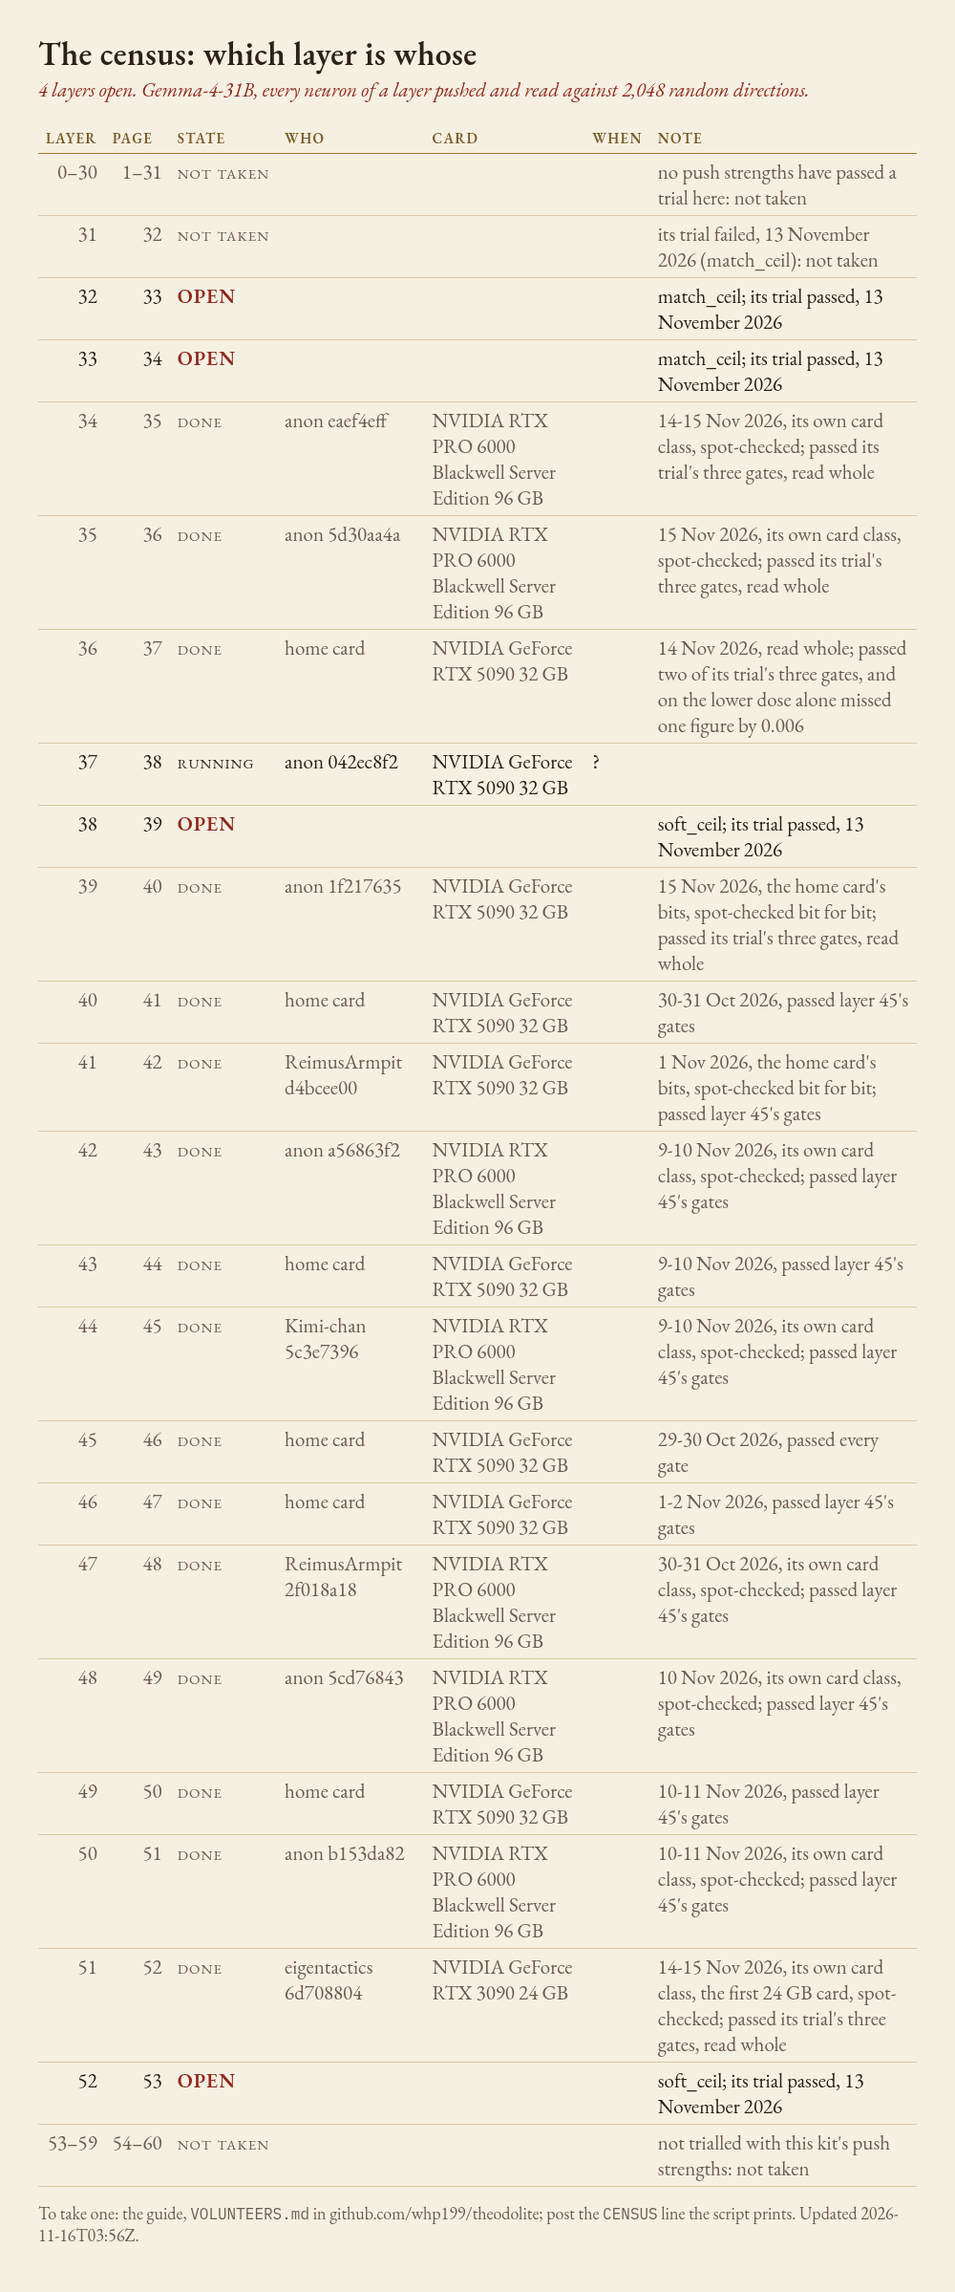
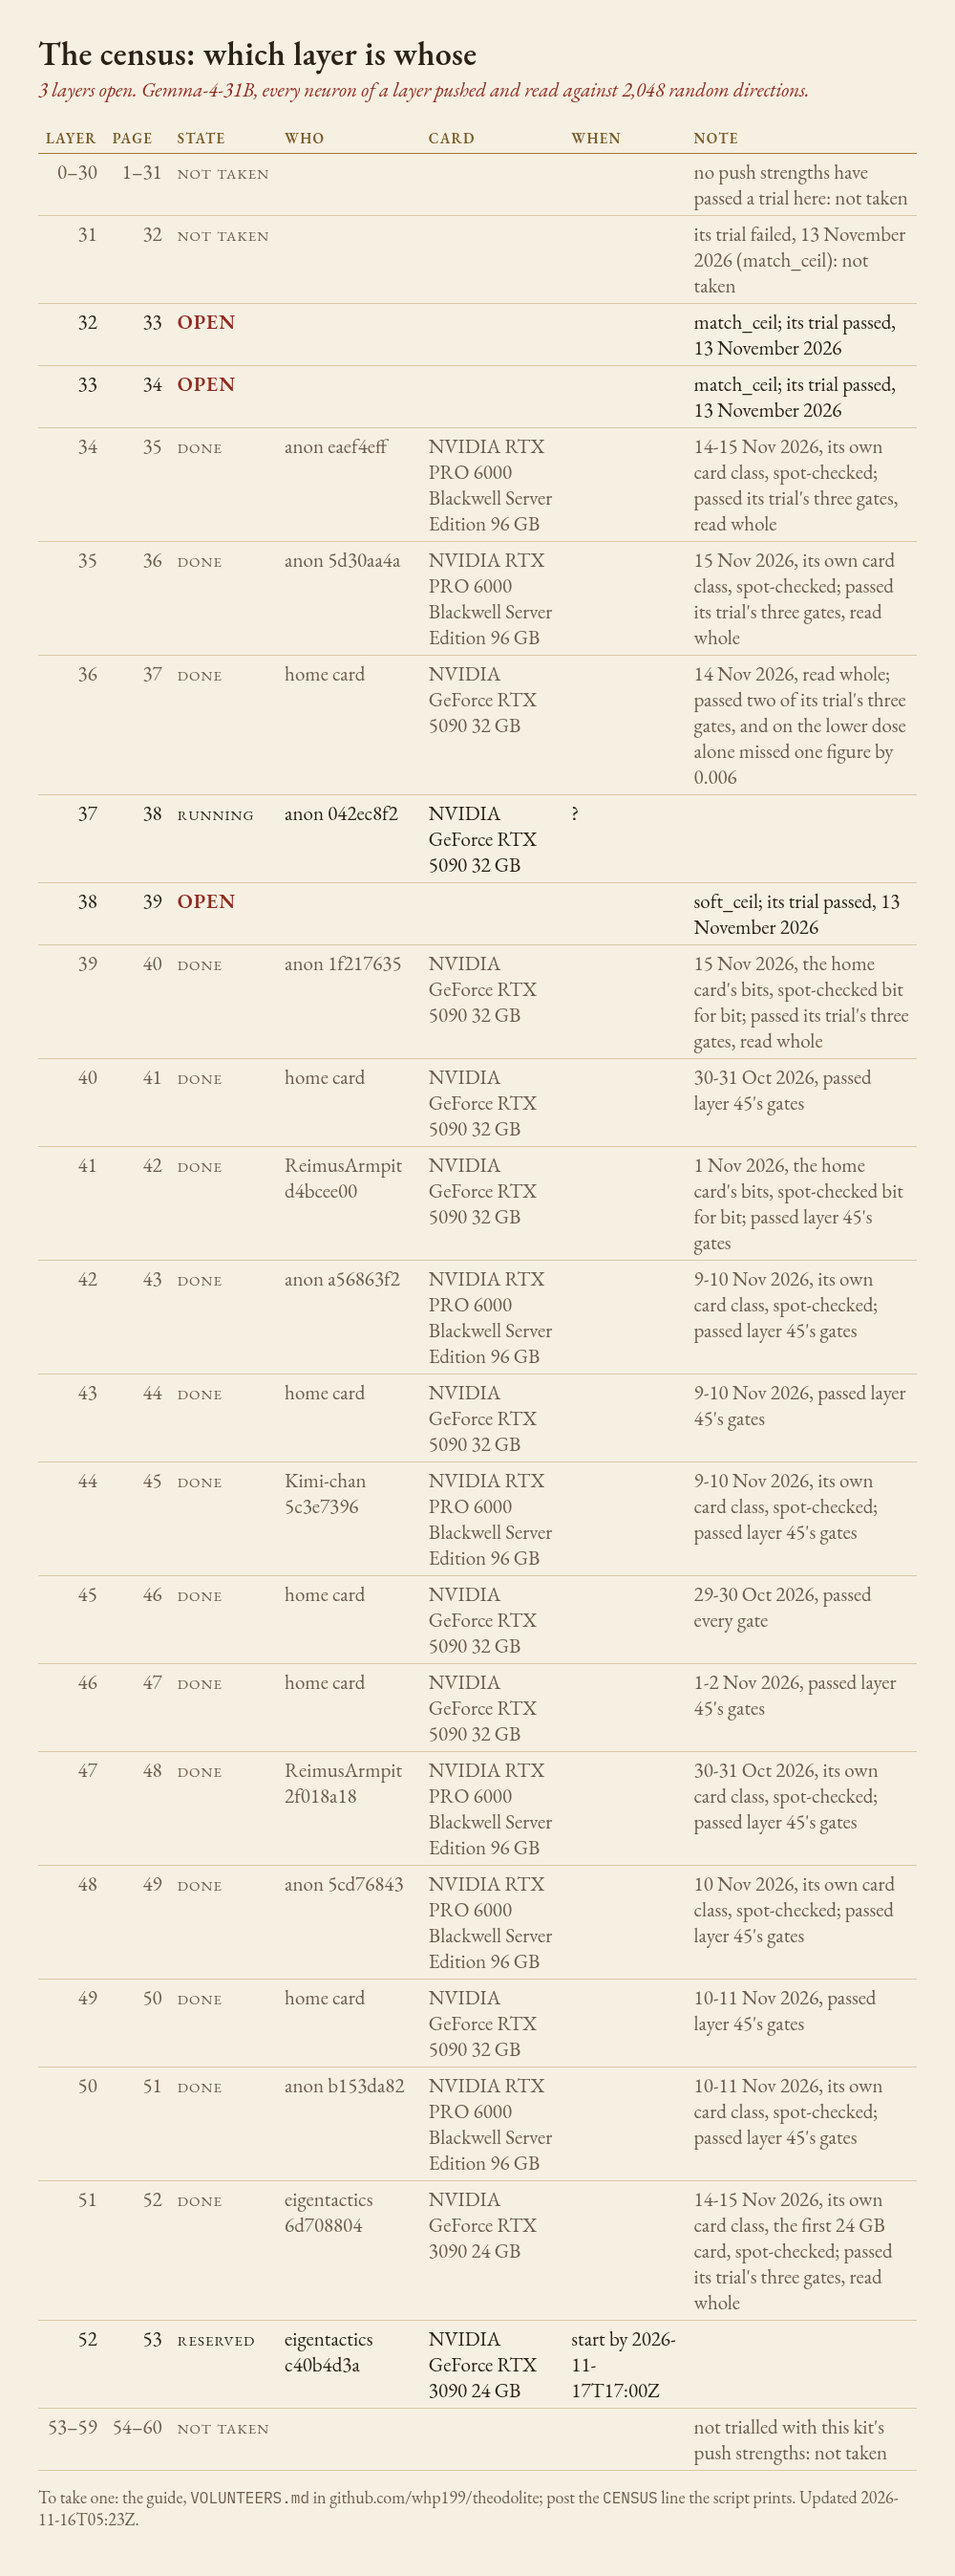
Board: layer 52 reserved by eigentactics on the RTX 3090 (c40b4d3a); 37 running; 32, 33 and 38 open

diff --git a/volunteers/BOARD.md b/volunteers/BOARD.md
@@ -26,7 +26,7 @@ Kit 4 (census-kit-4). How to take a layer: [VOLUNTEERS.md](https://github.com/wh
 | 49 | 50 | done | home card | NVIDIA GeForce RTX 5090 32 GB |  | 10-11 Nov 2026, passed layer 45's gates |
 | 50 | 51 | done | anon b153da82 | NVIDIA RTX PRO 6000 Blackwell Server Edition 96 GB |  | 10-11 Nov 2026, its own card class, spot-checked; passed layer 45's gates |
 | 51 | 52 | done | eigentactics 6d708804 | NVIDIA GeForce RTX 3090 24 GB |  | 14-15 Nov 2026, its own card class, the first 24 GB card, spot-checked; passed its trial's three gates, read whole |
-| 52 | 53 | OPEN |  |  |  | soft_ceil; its trial passed, 13 November 2026 |
+| 52 | 53 | reserved | eigentactics c40b4d3a | NVIDIA GeForce RTX 3090 24 GB | start by 2026-11-17T17:00Z |  |
 | 53–59 | 54–60 | not taken |  |  |  | not trialled with this kit's push strengths: not taken |
 
 Judged:
@@ -42,4 +42,4 @@ Judged:
 - L35 anon 5d30aa4a: accepted (15 Nov 2026, its own card class, spot-checked; passed its trial's three gates, read whole)
 - L39 anon 1f217635: accepted (15 Nov 2026, the home card's bits, spot-checked bit for bit; passed its trial's three gates, read whole)
 
-Holds: 36 h after RESERVE to START; then the run's end time (from PROGRESS) plus 24 h; at most 10 days in all. Updated 2026-11-16T03:56Z.
+Holds: 36 h after RESERVE to START; then the run's end time (from PROGRESS) plus 24 h; at most 10 days in all. Updated 2026-11-16T05:23Z.
